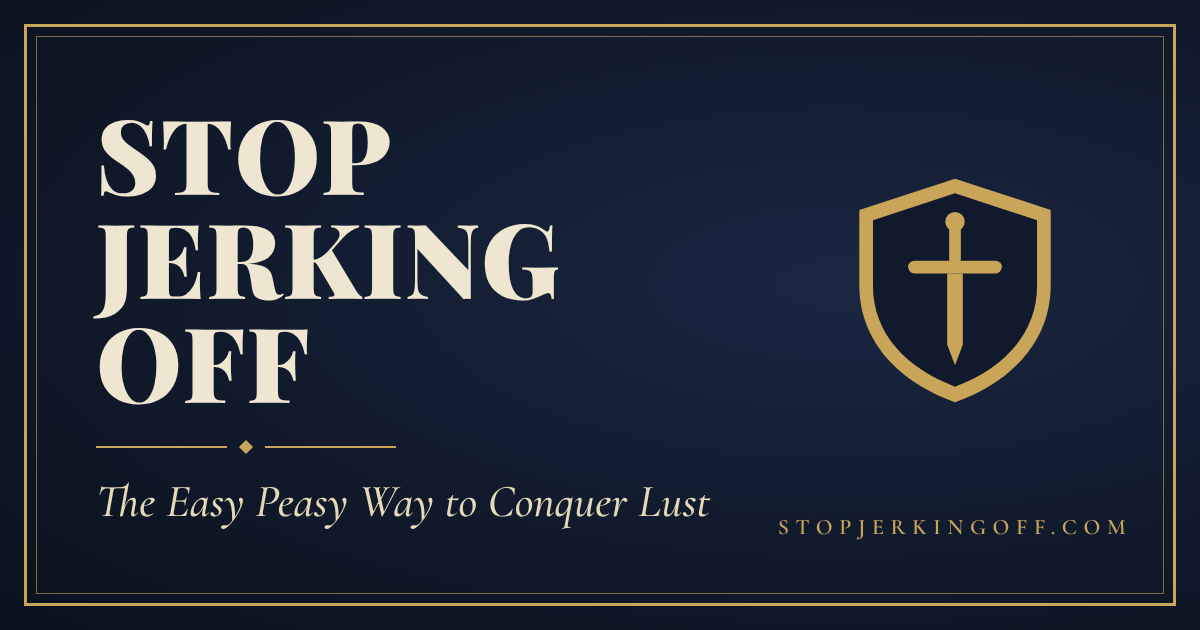
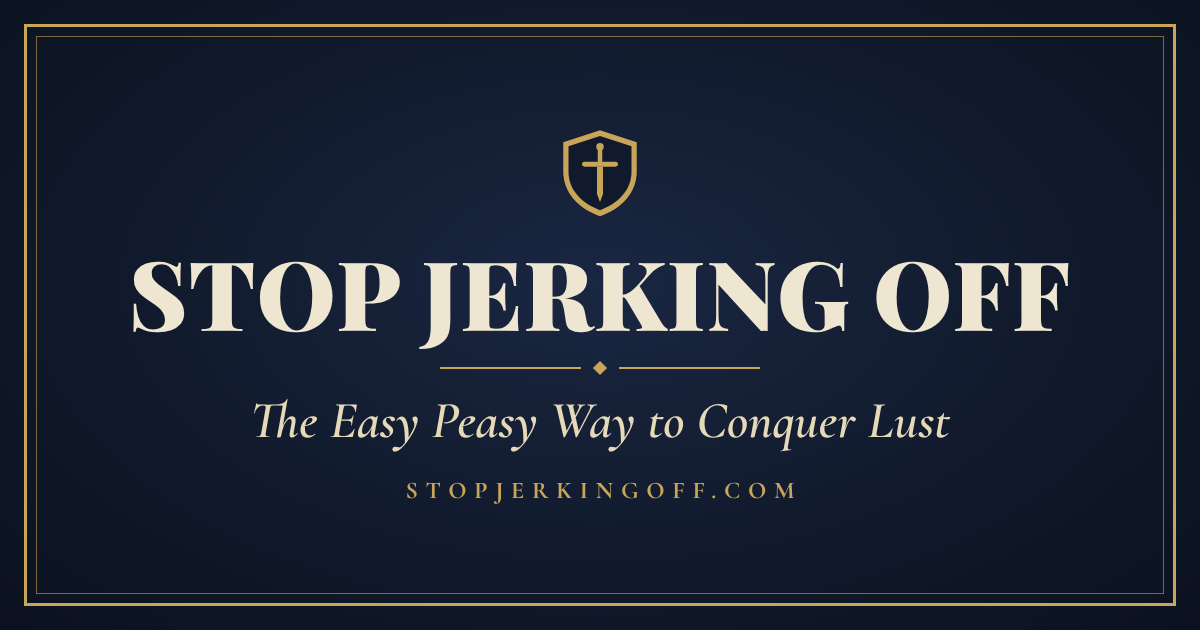
Share image: centered layout (option A)
Claude-Session: https://claude.ai/code/session_01PmUGnYjDHtjUciKgiGjbhY

diff --git a/site/cover/og.html b/site/cover/og.html
@@ -1,18 +1,19 @@
 <!doctype html><html><head><meta charset="utf-8">
-<link href="https://fonts.googleapis.com/css2?family=Playfair+Display:wght@900&family=Cormorant+Garamond:ital,wght@0,600;1,500&display=block" rel="stylesheet">
+<link href="https://fonts.googleapis.com/css2?family=Playfair+Display:wght@900&family=Cormorant+Garamond:ital,wght@0,600;0,700;1,500;1,600&display=block" rel="stylesheet">
 <style>
 html,body{margin:0}
-body{width:1200px;height:630px;position:relative;overflow:hidden;background:radial-gradient(ellipse at 70% 45%,#1a2742 0%,#111a2c 55%,#0b111e 100%);color:#efe6d2}
+body{width:1200px;height:630px;position:relative;overflow:hidden;background:radial-gradient(ellipse at 50% 45%,#1a2742 0%,#111a2c 55%,#0b111e 100%);color:#efe6d2}
 .f1{position:absolute;inset:24px;border:3px solid #c9a55a}.f2{position:absolute;inset:36px;border:1px solid rgba(201,165,90,.6)}
-.txt{position:absolute;left:96px;top:0;bottom:0;width:700px;display:flex;flex-direction:column;justify-content:center}
-h1{margin:0;font:900 104px/1 'Playfair Display',serif;text-transform:uppercase;letter-spacing:.01em}
-.rule{display:flex;align-items:center;gap:14px;width:300px;margin:30px 0 22px}.rule i{flex:1;height:2px;background:#c9a55a}.rule b{width:10px;height:10px;background:#c9a55a;transform:rotate(45deg)}
-.sub{font:italic 500 46px/1.2 'Cormorant Garamond',serif;color:#e6d9b8}
-.logo{position:absolute;right:120px;top:50%;width:250px;margin-top:-150px}
-.url{position:absolute;right:0;width:490px;bottom:90px;text-align:center;font:600 22px 'Cormorant Garamond',serif;letter-spacing:.3em;color:#c9a55a;text-transform:uppercase}
+h1{margin:0;font:900 96px/1 "Playfair Display",serif;text-transform:uppercase;letter-spacing:.01em;white-space:nowrap}
+.rule{display:flex;align-items:center;gap:14px;width:320px}.rule i{flex:1;height:2px;background:#c9a55a}.rule b{width:10px;height:10px;background:#c9a55a;transform:rotate(45deg)}
+.sub{font:italic 600 52px/1.15 "Cormorant Garamond",serif;color:#e6d9b8}
+.url{font:700 24px "Cormorant Garamond",serif;letter-spacing:.32em;color:#c9a55a;text-transform:uppercase}
+
+.wrap{position:absolute;inset:60px 80px;display:flex;flex-direction:column;align-items:center;justify-content:center;text-align:center}
+.logo{width:96px;margin-bottom:22px}
+.rule{margin:24px 0 18px}
+.url{margin-top:26px;padding-left:.32em}
 </style></head><body><div class="f1"></div><div class="f2"></div>
-<div class="txt"><h1>Stop<br>Jerking Off</h1><div class="rule"><i></i><b></b><i></i></div>
-<div class="sub">The Easy Peasy Way to Conquer Lust</div></div>
-<img class="logo" src="../../images/logo.svg">
-<div class="url">stopjerkingoff.com</div>
+<div class="wrap"><img class="logo" src="../../images/logo.svg"><h1>Stop Jerking Off</h1><div class="rule"><i></i><b></b><i></i></div>
+<div class="sub">The Easy Peasy Way to Conquer Lust</div><div class="url">stopjerkingoff.com</div></div>
 </body></html>

diff --git a/site/cover/og-B.html b/site/cover/og-B.html
@@ -1,0 +1,22 @@
+<!doctype html><html><head><meta charset="utf-8">
+<link href="https://fonts.googleapis.com/css2?family=Playfair+Display:wght@900&family=Cormorant+Garamond:ital,wght@0,600;0,700;1,500;1,600&display=block" rel="stylesheet">
+<style>
+html,body{margin:0}
+body{width:1200px;height:630px;position:relative;overflow:hidden;background:radial-gradient(ellipse at 50% 45%,#1a2742 0%,#111a2c 55%,#0b111e 100%);color:#efe6d2}
+.f1{position:absolute;inset:24px;border:3px solid #c9a55a}.f2{position:absolute;inset:36px;border:1px solid rgba(201,165,90,.6)}
+h1{margin:0;font:900 96px/1 "Playfair Display",serif;text-transform:uppercase;letter-spacing:.01em;white-space:nowrap}
+.rule{display:flex;align-items:center;gap:14px;width:320px}.rule i{flex:1;height:2px;background:#c9a55a}.rule b{width:10px;height:10px;background:#c9a55a;transform:rotate(45deg)}
+.sub{font:italic 600 52px/1.15 "Cormorant Garamond",serif;color:#e6d9b8}
+.url{font:700 24px "Cormorant Garamond",serif;letter-spacing:.32em;color:#c9a55a;text-transform:uppercase}
+
+body{background:radial-gradient(ellipse at 30% 50%,#1a2742 0%,#111a2c 55%,#0b111e 100%)}
+.wrap{position:absolute;inset:50px 80px;display:flex;align-items:center;justify-content:center;gap:72px}
+.logo{width:210px;flex:none}
+.txt{display:flex;flex-direction:column;align-items:flex-start}
+h1{font-size:92px;line-height:.95}
+.rule{margin:22px 0 14px}
+.url{margin-top:18px}
+</style></head><body><div class="f1"></div><div class="f2"></div>
+<div class="wrap"><img class="logo" src="../../images/logo.svg"><div class="txt"><h1>Stop<br>Jerking<br>Off</h1><div class="rule"><i></i><b></b><i></i></div>
+<div class="sub">The Easy Peasy Way<br>to Conquer Lust</div><div class="url">stopjerkingoff.com</div></div></div>
+</body></html>

diff --git a/site/cover/og-A.html b/site/cover/og-A.html
@@ -1,0 +1,19 @@
+<!doctype html><html><head><meta charset="utf-8">
+<link href="https://fonts.googleapis.com/css2?family=Playfair+Display:wght@900&family=Cormorant+Garamond:ital,wght@0,600;0,700;1,500;1,600&display=block" rel="stylesheet">
+<style>
+html,body{margin:0}
+body{width:1200px;height:630px;position:relative;overflow:hidden;background:radial-gradient(ellipse at 50% 45%,#1a2742 0%,#111a2c 55%,#0b111e 100%);color:#efe6d2}
+.f1{position:absolute;inset:24px;border:3px solid #c9a55a}.f2{position:absolute;inset:36px;border:1px solid rgba(201,165,90,.6)}
+h1{margin:0;font:900 96px/1 "Playfair Display",serif;text-transform:uppercase;letter-spacing:.01em;white-space:nowrap}
+.rule{display:flex;align-items:center;gap:14px;width:320px}.rule i{flex:1;height:2px;background:#c9a55a}.rule b{width:10px;height:10px;background:#c9a55a;transform:rotate(45deg)}
+.sub{font:italic 600 52px/1.15 "Cormorant Garamond",serif;color:#e6d9b8}
+.url{font:700 24px "Cormorant Garamond",serif;letter-spacing:.32em;color:#c9a55a;text-transform:uppercase}
+
+.wrap{position:absolute;inset:60px 80px;display:flex;flex-direction:column;align-items:center;justify-content:center;text-align:center}
+.logo{width:96px;margin-bottom:22px}
+.rule{margin:24px 0 18px}
+.url{margin-top:26px;padding-left:.32em}
+</style></head><body><div class="f1"></div><div class="f2"></div>
+<div class="wrap"><img class="logo" src="../../images/logo.svg"><h1>Stop Jerking Off</h1><div class="rule"><i></i><b></b><i></i></div>
+<div class="sub">The Easy Peasy Way to Conquer Lust</div><div class="url">stopjerkingoff.com</div></div>
+</body></html>

diff --git a/tools/seo.py b/tools/seo.py
@@ -15,7 +15,7 @@ TITLE = "Stop Jerking Off"
 FULL_TITLE = "Stop Jerking Off: The Easy Peasy Way to Conquer Lust"
 DESCRIPTION = ("Conquer lust the easy way: stop masturbating and watching porn without willpower or shame. "
                "A free book in the style of EasyPeasy that helps you walk away for good.")
-IMAGE = SITE + "images/og-image.png?v=6"
+IMAGE = SITE + "images/og-image.png?v=7"
 PUBLISHER = {"@type": "Organization", "name": TITLE, "url": SITE}  # the book is anonymous
 # Search-engine ownership checks: paste the code from Google Search Console / Bing Webmaster Tools here.
 GOOGLE_VERIFY = ""
